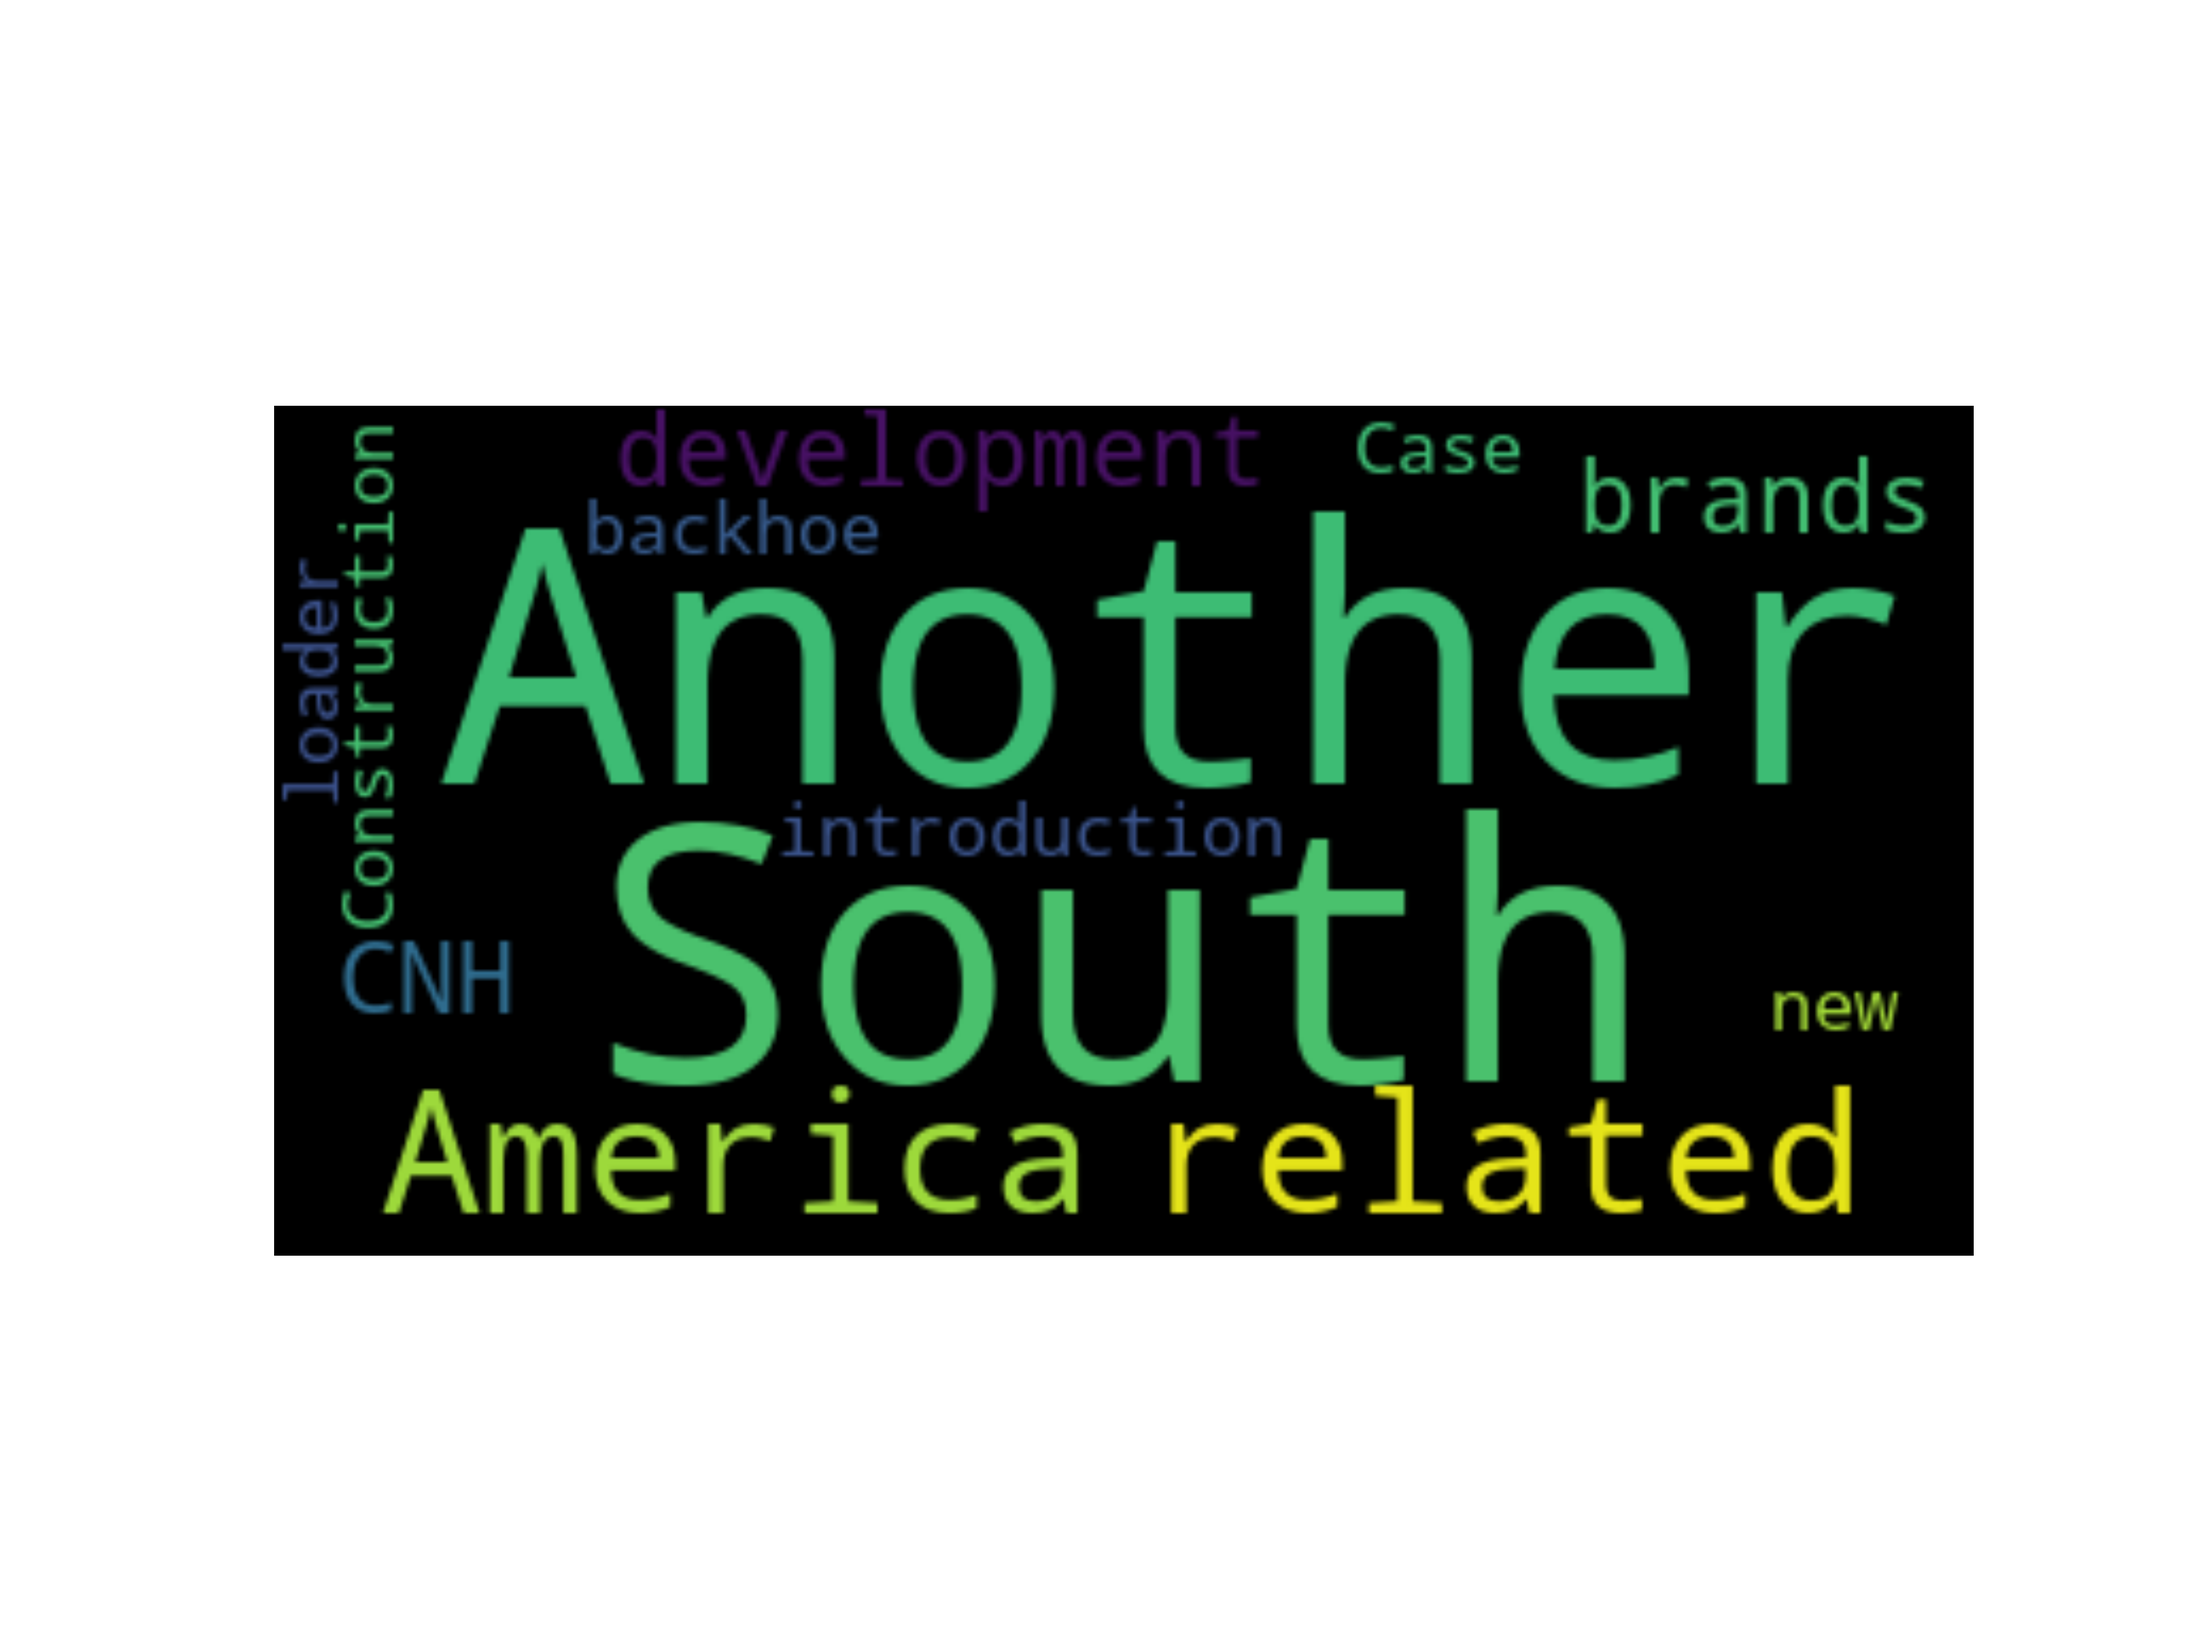
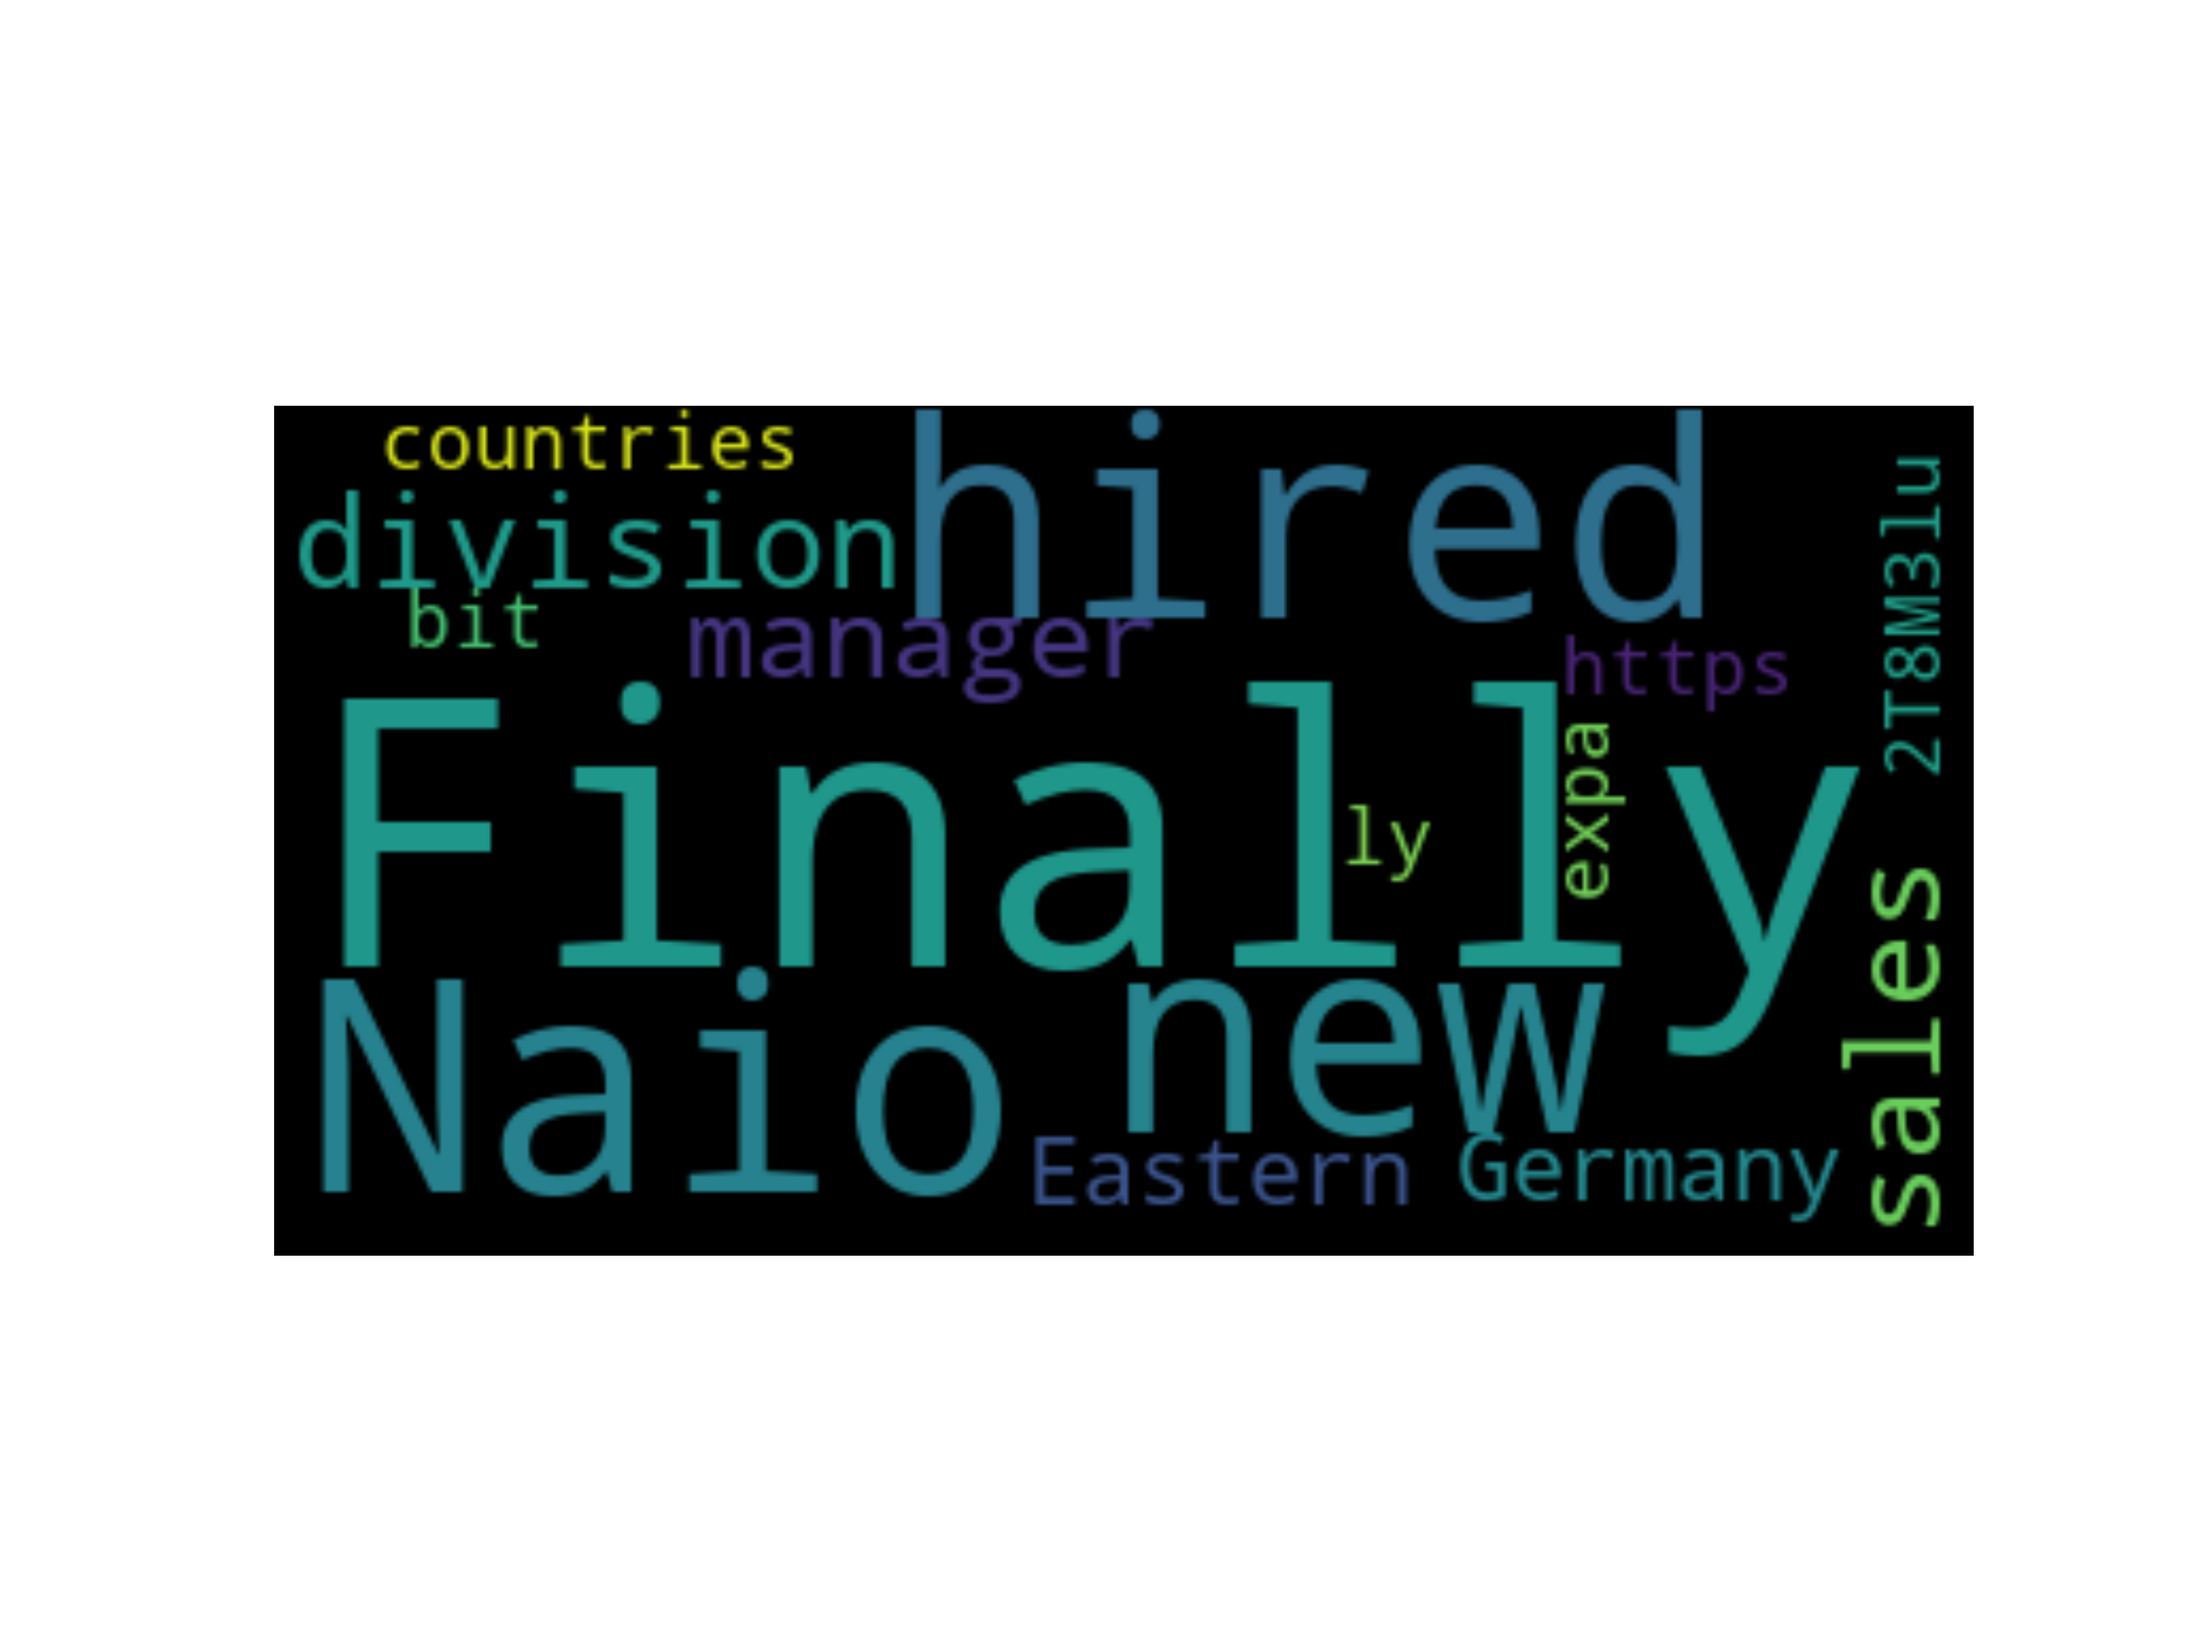
commit

Changed region(s): [[0.125, 0.248, 0.9062, 0.744]]

diff --git a/traiz/blog/templates/blog/results.html b/traiz/blog/templates/blog/results.html
@@ -7,6 +7,9 @@
 {% load crispy_forms_tags %}
 {% load static %}
 
+<h1>Results</h1>
+<h4>Company Listing and Worldcloud Visualization</h4>
+<p>Note that Companies that are related to a specific Country and Indicator can have the same Output paragraphe.</p>
 <div id="Timeline">
             <div>
 
@@ -14,21 +17,20 @@
 
                                 {% csrf_token %}
                                 {% for item, item2, item3 in value %}
-                                    <a type="submit" method="post" name="Datenholen" href="/customer_care/"   id="show_worldcloud"  value='{{ item2 }}'>{{ item }}<u id="text_worldcloud"> show wordcloud </u></a>
-                                    <p value='{{ item }}'>{{ item2 }}</p>
-                                    <p>{{item3}}</p>
-                                    <img src="{% get_static_prefix %}/images/books_read{{item3}}.png" alt="Girl in a jacket" width="500" height="600">
-                                    <button type="submit"></button>
+                                <div id="Rahmen" >
+                                        <div id="FirmaUndText" >
+                                            <h5>{{item3}}.</h5>
+                                            <a type="submit" method="post" name="Datenholen" id="show_worldcloud"  value='{{ item2 }}'>{{ item }}<u id="text_worldcloud"> show wordcloud </u></a>
+                                            <p value='{{ item }}'>{{ item2 }}</p>
+                                        </div>
+
+                                                <div id="alleBilder">
+                                                        <img src="{% get_static_prefix %}images/books_read{{item3}}.png" alt="Girl in a jacket" width="600" height="550">
+                                                </div>
+                                </div>
+
+                                <br></br>
                                 {% endfor %}
-
-
-                     <div>
-                            {% csrf_token %}
-                            {{ date.date }}
-                            {{ date }}
-                    </div>
-                    <div>
-                        <p>Word Cloud Visualisation & Company Listing</p>
 
 
 

diff --git a/traiz/blog/static/blog/main.css b/traiz/blog/static/blog/main.css
@@ -227,6 +227,23 @@ margin-left: 25px;
   color: white;
 }
 
+#FirmaUndText{
+ width:45%;
+ float: left;
+ margin-left: 10px;
+
+}
+
+#Rahmen{
+  border: 4px solid #316F73;
+}
+
+a{
+  font-size: 20px;
+}
+
+
+
 /* -------- dashboard page -------------*/
 
 #dashboard_div_eins{

diff --git a/traiz/blog/views.py b/traiz/blog/views.py
@@ -437,7 +437,7 @@ def cloud(sentence,val):
     plt.figure(figsize=(40, 30))
     plt.imshow(wc, interpolation='bilinear')
     plt.axis("off")
-    plt.savefig("/Users/arjhunmohanarangam/Documents/GitHub/AItalents/traiz/blog/static/images/books_read"+str(val)+".png")
+    plt.savefig("/Users/su-cl/Documents/IMD/AiTalents/Repo/AItalent/traiz/blog/static/images/books_read"+str(val)+".png")
     image = io.BytesIO()
     plt.savefig(image, format='png')
     image.seek(0)  # rewind the data
